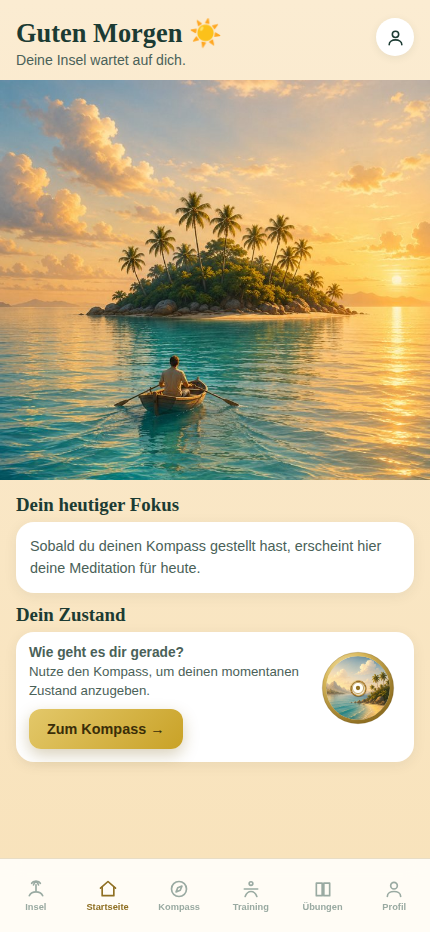
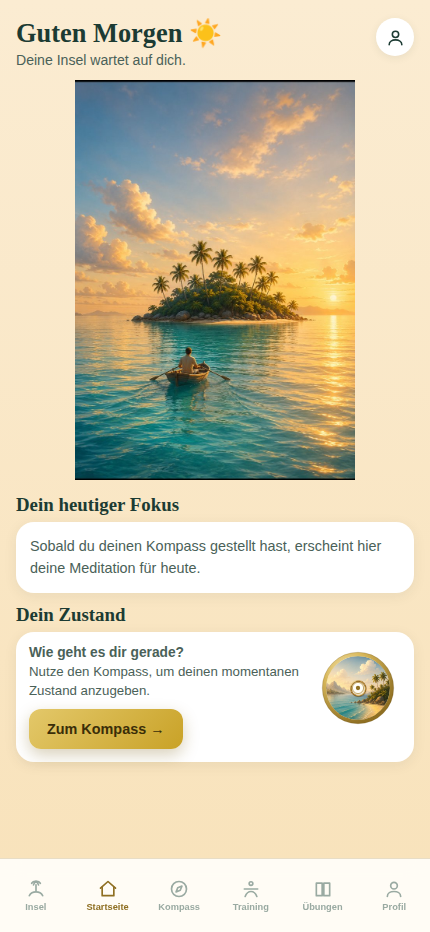
Startseite: komplettes Insel-Foto statt Ausschnitt zeigen (object-fit:contain)

diff --git a/index.html b/index.html
@@ -241,18 +241,16 @@
 
   /* ---------- Startseite ----------
      Alles zusammen soll ohne Scrollen aufs Handy passen. Das Foto ist
-     dafuer der groesste Hebel. Neu vermessen: Insel liegt bei ca. 38-62%,
-     das Boot bei ca. 65-80% der Bildhoehe - zusammen mehr Bildhoehe, als
-     auf der kleinsten Kartengroesse (min-height 152px) gleichzeitig Platz
-     hat. Das Boot (die Person, die zur Insel unterwegs ist) ist dabei das
-     wichtigere Motiv, darum ist "center 72%" so gewaehlt, dass das Boot
-     auch im knappsten Fall vollstaendig sichtbar bleibt - im Zweifel
-     fehlen dafuer die obersten Palmenspitzen, nie das Boot selbst. */
+     dafuer der groesste Hebel. Das Hochformat-Foto (720x1027) ist deutlich
+     schmaler als der breite Streifen hoch ist - ein Ausschnitt ("cover")
+     musste darum immer irgendetwas abschneiden (erst die Insel, dann das
+     Boot). Auf Christines Wunsch zeigt "contain" jetzt IMMER das ganze
+     Foto; links/rechts bleibt dafuer ein Rand in der Seiten-Hintergrundfarbe. */
   .home-hero-photo{
     flex:1 1 0; min-height:152px; max-height:400px; overflow:hidden;
     margin:0 -16px 14px;
   }
-  .home-hero-photo img{ width:100%; height:100%; object-fit:cover; object-position:center 72%; display:block; }
+  .home-hero-photo img{ width:100%; height:100%; object-fit:contain; display:block; }
 
   /* Wenn heute schon etwas gehört wurde, ist die Liste im "heutigen
      Fokus" etwas voller - dort darum knapper als anderswo, damit auch

diff --git a/SPEC.md b/SPEC.md
@@ -83,7 +83,7 @@ Die Titelseite ist die Landingpage: Sie hat genau **eine** Aufgabe — den Grati
 ### 3.1 Startseite (`data-step="home"`)
 - Seitenkopf mit tageszeitabhängiger Begrüssung (`begruessung()` + Symbol) und rundem Profil-Knopf.
 - **Grosses Insel-Foto (randlos), das den Rest der Seite bis zur Tab-Bar auffüllt** — ohne Scrollen soll alles auf den Bildschirm passen. Dafür ist `.home-page` (nur auf diesem Schritt) eine Flex-Spalte mit `min-height:calc(100vh - Tabbar - Safe-Area)`; das Foto ist darin der einzige dehnbare Baustein (`flex:1 1 0`, `min-height:152px`, `max-height:400px`) — es wächst auf grossen Bildschirmen, bleibt auf kleinen bei seiner Mindesthöhe, und die Kopf-, Fokus- und Zustands-Blöcke behalten ihre normale, inhaltsabhängige Höhe. Alle anderen Abstände auf dieser Seite (Kopf-Abstand, Abschnittsüberschriften, Karten-Innenabstände) sind eigens für die Startseite etwas knapper als anderswo (`.home-page`-Zusatzregeln), damit auch auf einem iPhone SE nichts über die Tab-Bar hinausragt.
-  - **Bildausschnitt bewusst nicht die Bildmitte**: `object-position:center 63%` statt `50%`. Nachgemessen liegt die Insel bei ~40-60 %, das Boot bei ~65-78 % der Bildhöhe (beides deutlich unterhalb der Mitte) — bei `50%` hätte ein kürzeres Foto zuerst das Boot verloren, weil der sichtbare Ausschnitt symmetrisch um die Bildmitte schrumpft. Mit dem Anker bei `63%` zeigt auch ein knappes Foto zuverlässig **beides**, Insel und Boot. Geprüft auf iPhone SE/14/15 Pro Max: das Foto reicht dabei von 152px (SE, Fussboden-Wert) bis rechnerisch 400px (grosse Screens, in der Praxis capped durch den verfügbaren Platz).
+  - **Ganzes Foto statt Ausschnitt**: `object-fit:contain` (nicht `cover`). Das Quellfoto ist hochformatig (720×1027), der Streifen dagegen breit und flach — ein Ausschnitt musste darum immer etwas abschneiden (erst getestet: Insel und Boot bei ~63 % Bildhöhe zentriert, dann auf ~72 % verschoben, damit wenigstens das Boot sicher sichtbar bleibt). Da beide Ausschnitt-Varianten in der Praxis als "man sieht das Foto nicht richtig" empfunden wurden, zeigt die Seite auf Christines Wunsch jetzt **immer das komplette Foto**; links/rechts bleibt dafür ein Rand in der Seiten-Hintergrundfarbe (auf sehr flachen Streifen, z. B. iPhone SE, ein grösserer Rand als auf hohen). Geprüft auf iPhone SE/14/15 Pro Max: das Foto reicht dabei von 152px (SE, Fussboden-Wert) bis rechnerisch 400px (grosse Screens, in der Praxis capped durch den verfügbaren Platz).
   - **Ausnahme, ehrlich benannt:** Wurde an einem Tag schon **mehrfach** meditiert, wächst die Liste unter "Dein heutiger Fokus" entsprechend — bei zwei oder mehr Einträgen reicht selbst das knappste Layout auf einem iPhone SE nicht mehr ganz aus (ein kurzes Stück Scrollen wird dann nötig, so wie bei jeder Liste mit offener Länge). Der Alltagsfall — noch nichts oder eine Meditation gehört — passt auf allen drei getesteten Grössen ohne Scrollen.
 - **"Dein heutiger Fokus"** — **eine** Karte statt eines Nebeneinanders von Rückblick und Vorschlag (so wie bei Calm, Headspace & Co., nie beides gleichzeitig), und **ohne** etwas zu wiederholen, das schon in "Dein Zustand" direkt darunter steht. Drei Zustände, je nachdem was zutrifft:
   1. **Noch keine Empfehlung gebaut** (`empfehlung.length === 0` — weder Kompass benutzt noch "Meditationen empfehlen" angetippt): nur der Hinweistext "Sobald du deinen Kompass gestellt hast, erscheint hier deine Meditation für heute." — **ohne** eigenen "Zum Kompass"-Knopf, denn den hat "Dein Zustand" bereits; zwei gleich lautende Tasten direkt untereinander wären dieselbe Handlung zweimal angeboten.
